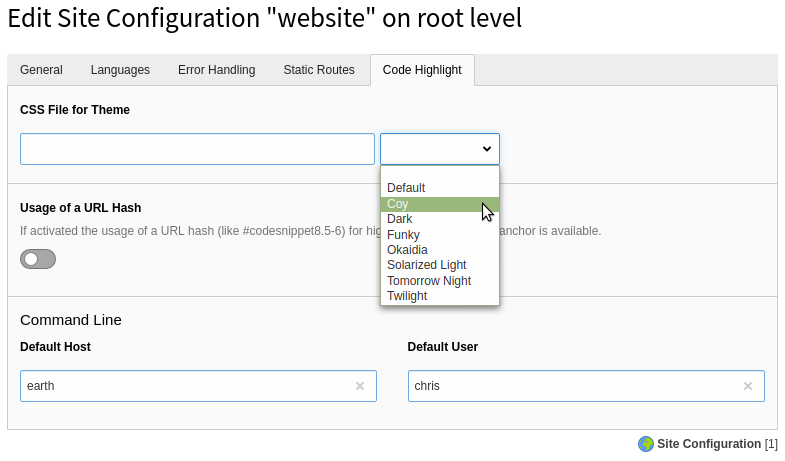
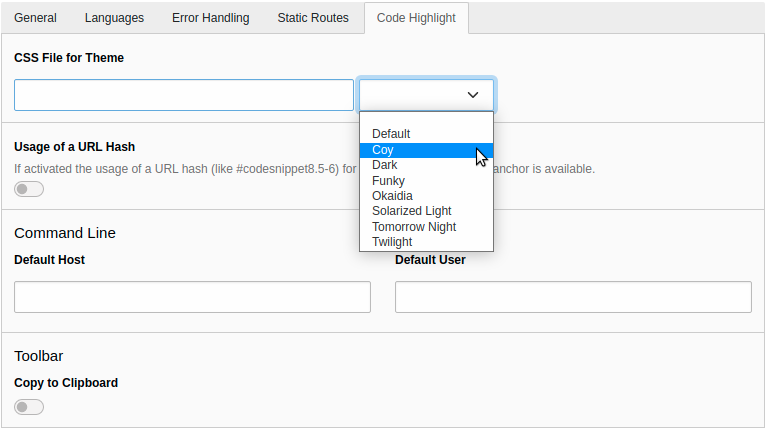
[FEATURE] Add plugin "Copy to clipboard"
Resolves: #27

diff --git a/Resources/Public/Prism/plugins/toolbar/prism-toolbar.min.js b/Resources/Public/Prism/plugins/toolbar/prism-toolbar.min.js
@@ -1,0 +1,1 @@
+!function(){if("undefined"!=typeof Prism&&"undefined"!=typeof document){var i=[],l={},d=function(){};Prism.plugins.toolbar={};var e=Prism.plugins.toolbar.registerButton=function(e,n){var t;t="function"==typeof n?n:function(e){var t;return"function"==typeof n.onClick?((t=document.createElement("button")).type="button",t.addEventListener("click",function(){n.onClick.call(this,e)})):"string"==typeof n.url?(t=document.createElement("a")).href=n.url:t=document.createElement("span"),n.className&&t.classList.add(n.className),t.textContent=n.text,t},e in l?console.warn('There is a button with the key "'+e+'" registered already.'):i.push(l[e]=t)},t=Prism.plugins.toolbar.hook=function(a){var e=a.element.parentNode;if(e&&/pre/i.test(e.nodeName)&&!e.parentNode.classList.contains("code-toolbar")){var t=document.createElement("div");t.classList.add("code-toolbar"),e.parentNode.insertBefore(t,e),t.appendChild(e);var r=document.createElement("div");r.classList.add("toolbar");var n=i,o=function(e){for(;e;){var t=e.getAttribute("data-toolbar-order");if(null!=t)return(t=t.trim()).length?t.split(/\s*,\s*/g):[];e=e.parentElement}}(a.element);o&&(n=o.map(function(e){return l[e]||d})),n.forEach(function(e){var t=e(a);if(t){var n=document.createElement("div");n.classList.add("toolbar-item"),n.appendChild(t),r.appendChild(n)}}),t.appendChild(r)}};e("label",function(e){var t=e.element.parentNode;if(t&&/pre/i.test(t.nodeName)&&t.hasAttribute("data-label")){var n,a,r=t.getAttribute("data-label");try{a=document.querySelector("template#"+r)}catch(e){}return a?n=a.content:(t.hasAttribute("data-url")?(n=document.createElement("a")).href=t.getAttribute("data-url"):n=document.createElement("span"),n.textContent=r),n}}),Prism.hooks.add("complete",t)}}();

diff --git a/Resources/Public/Prism/plugins/copy-to-clipboard/prism-copy-to-clipboard.min.js b/Resources/Public/Prism/plugins/copy-to-clipboard/prism-copy-to-clipboard.min.js
@@ -1,0 +1,1 @@
+!function(){function u(t,e){t.addEventListener("click",function(){!function(t){navigator.clipboard?navigator.clipboard.writeText(t.getText()).then(t.success,function(){o(t)}):o(t)}(e)})}function o(e){var t=document.createElement("textarea");t.value=e.getText(),t.style.top="0",t.style.left="0",t.style.position="fixed",document.body.appendChild(t),t.focus(),t.select();try{var o=document.execCommand("copy");setTimeout(function(){o?e.success():e.error()},1)}catch(t){setTimeout(function(){e.error(t)},1)}document.body.removeChild(t)}"undefined"!=typeof Prism&&"undefined"!=typeof document&&(Prism.plugins.toolbar?Prism.plugins.toolbar.registerButton("copy-to-clipboard",function(t){var e=t.element,o=function(t){var e={copy:"Copy","copy-error":"Press Ctrl+C to copy","copy-success":"Copied!","copy-timeout":5e3};for(var o in e){for(var n="data-prismjs-"+o,c=t;c&&!c.hasAttribute(n);)c=c.parentElement;c&&(e[o]=c.getAttribute(n))}return e}(e),n=document.createElement("button");n.className="copy-to-clipboard-button",n.setAttribute("type","button");var c=document.createElement("span");return n.appendChild(c),i("copy"),u(n,{getText:function(){return e.textContent},success:function(){i("copy-success"),r()},error:function(){i("copy-error"),setTimeout(function(){!function(t){window.getSelection().selectAllChildren(t)}(e)},1),r()}}),n;function r(){setTimeout(function(){i("copy")},o["copy-timeout"])}function i(t){c.textContent=o[t],n.setAttribute("data-copy-state",t)}}):console.warn("Copy to Clipboard plugin loaded before Toolbar plugin."))}();

diff --git a/Resources/Public/Prism/plugins/toolbar/prism-toolbar.css b/Resources/Public/Prism/plugins/toolbar/prism-toolbar.css
@@ -1,0 +1,1 @@
+div.code-toolbar{position:relative}div.code-toolbar>.toolbar{position:absolute;top:.3em;right:.2em;transition:opacity .3s ease-in-out;opacity:0}div.code-toolbar:hover>.toolbar{opacity:1}div.code-toolbar:focus-within>.toolbar{opacity:1}div.code-toolbar>.toolbar>.toolbar-item{display:inline-block}div.code-toolbar>.toolbar>.toolbar-item>a{cursor:pointer}div.code-toolbar>.toolbar>.toolbar-item>button{background:0 0;border:0;color:inherit;font:inherit;line-height:normal;overflow:visible;padding:0;-webkit-user-select:none;-moz-user-select:none;-ms-user-select:none}div.code-toolbar>.toolbar>.toolbar-item>a,div.code-toolbar>.toolbar>.toolbar-item>button,div.code-toolbar>.toolbar>.toolbar-item>span{color:#bbb;font-size:.8em;padding:0 .5em;background:#f5f2f0;background:rgba(224,224,224,.2);box-shadow:0 2px 0 0 rgba(0,0,0,.2);border-radius:.5em}div.code-toolbar>.toolbar>.toolbar-item>a:focus,div.code-toolbar>.toolbar>.toolbar-item>a:hover,div.code-toolbar>.toolbar>.toolbar-item>button:focus,div.code-toolbar>.toolbar>.toolbar-item>button:hover,div.code-toolbar>.toolbar>.toolbar-item>span:focus,div.code-toolbar>.toolbar>.toolbar-item>span:hover{color:inherit;text-decoration:none}

diff --git a/Build/gulpfile.js b/Build/gulpfile.js
@@ -16,9 +16,11 @@ const options = {
   outputPath: '../Resources/Public/Prism/',
   availablePlugins: [
     'command-line',
+    'copy-to-clipboard',
     'inline-color',
     'line-highlight',
     'line-numbers',
+    'toolbar',
   ],
 };
 

diff --git a/Classes/ViewHelpers/PrismViewHelper.php b/Classes/ViewHelpers/PrismViewHelper.php
@@ -11,6 +11,8 @@ declare(strict_types=1);
 
 namespace Brotkrueml\CodeHighlight\ViewHelpers;
 
+use Brotkrueml\CodeHighlight\Extension;
+use Brotkrueml\CodeHighlight\Service\TranslationService;
 use TYPO3\CMS\Core\Page\PageRenderer;
 use TYPO3\CMS\Core\Utility\GeneralUtility;
 use TYPO3Fluid\Fluid\Core\Rendering\RenderingContextInterface;
@@ -32,14 +34,17 @@ use TYPO3Fluid\Fluid\Core\ViewHelper;
  */
 class PrismViewHelper extends ViewHelper\AbstractViewHelper
 {
-    private const PRISM_PATH = 'EXT:codehighlight/Resources/Public/Prism/';
-
     protected $escapeOutput = false;
 
     /**
      * @var PageRenderer
      */
     private static $pageRenderer;
+
+    /**
+     * @var TranslationService
+     */
+    private static $translationService;
 
     private static $configuration;
     private static $options;
@@ -70,7 +75,7 @@ class PrismViewHelper extends ViewHelper\AbstractViewHelper
         static::$id = $arguments['id'] ?? '';
         static::$snippet = $arguments['snippet'] ?? '';
 
-        if (empty(static::$snippet)) {
+        if (static::$snippet === '') {
             return '';
         }
 
@@ -82,6 +87,7 @@ class PrismViewHelper extends ViewHelper\AbstractViewHelper
         static::handleLineNumbers();
         static::handleCommandLine();
         static::handleInlineColour();
+        static::handleCopyToClipboard();
         static::handleProgrammingLanguage();
 
         return static::buildHtml();
@@ -177,6 +183,30 @@ class PrismViewHelper extends ViewHelper\AbstractViewHelper
         static::$codeClasses[] = 'language-css-extras';
     }
 
+    private static function handleCopyToClipboard(): void
+    {
+        if (! (static::$configuration['codehighlightToolbarCopyToClipboard'] ?? false)) {
+            return;
+        }
+
+        static::addCssFile('plugins/toolbar/prism-toolbar.css');
+        static::addJsFile('plugins/toolbar/prism-toolbar.min.js');
+        static::addJsFile('plugins/copy-to-clipboard/prism-copy-to-clipboard.min.js');
+
+        static::addToPreAttributes('prismjs-copy', static::translate('toolbar.copy'));
+        static::addToPreAttributes('prismjs-copy-error', static::translate('toolbar.copyError'));
+        static::addToPreAttributes('prismjs-copy-success', static::translate('toolbar.copySuccess'));
+    }
+
+    private static function translate(string $key): string
+    {
+        if (static::$translationService === null) {
+            static::$translationService = new TranslationService();
+        }
+
+        return static::$translationService->translate($key);
+    }
+
     private static function handleProgrammingLanguage(): void
     {
         $programmingLanguage = static::$options['programmingLanguage'] ?? '';
@@ -189,7 +219,7 @@ class PrismViewHelper extends ViewHelper\AbstractViewHelper
 
     private static function buildHtml(): string
     {
-        if (! empty(static::$preClasses)) {
+        if (static::$preClasses !== []) {
             static::$preAttributes[] = \sprintf(
                 'class="%s"',
                 \implode(' ', static::$preClasses)
@@ -199,7 +229,7 @@ class PrismViewHelper extends ViewHelper\AbstractViewHelper
         $preAttributes = \implode(' ', static::$preAttributes);
 
         $codeAttributes = '';
-        if (! empty(static::$codeClasses)) {
+        if (static::$codeClasses !== []) {
             $codeAttributes = \sprintf(
                 'class="%s"',
                 \implode(' ', static::$codeClasses)
@@ -227,7 +257,7 @@ class PrismViewHelper extends ViewHelper\AbstractViewHelper
     private static function addCssFile(string $file, bool $prependPrismPath = true): void
     {
         if ($prependPrismPath) {
-            static::$pageRenderer->addCssFile(static::PRISM_PATH . $file);
+            static::$pageRenderer->addCssFile(Extension::PRISM_BASE_PATH . $file);
         } else {
             static::$pageRenderer->addCssFile($file);
         }
@@ -235,7 +265,7 @@ class PrismViewHelper extends ViewHelper\AbstractViewHelper
 
     private static function addJsFile(string $file): void
     {
-        static::$pageRenderer->addJsFooterFile(static::PRISM_PATH . $file);
+        static::$pageRenderer->addJsFooterFile(Extension::PRISM_BASE_PATH . $file);
     }
 
     private static function addToPreAttributes(string $dataName, string $dataValue): void
@@ -253,5 +283,13 @@ class PrismViewHelper extends ViewHelper\AbstractViewHelper
     public static function setPageRenderer(PageRenderer $pageRenderer): void
     {
         static::$pageRenderer = $pageRenderer;
+    }
+
+    /**
+     * For testing purposes only!
+     */
+    public static function setTranslationService(TranslationService $translationService): void
+    {
+        static::$translationService = $translationService;
     }
 }

diff --git a/Configuration/SiteConfiguration/Overrides/sites.php b/Configuration/SiteConfiguration/Overrides/sites.php
@@ -17,14 +17,14 @@ $GLOBALS['SiteConfiguration']['site']['columns'] += [
             'eval' => 'trim',
             'valuePicker' => [
                 'items' => [
-                    [Brotkrueml\CodeHighlight\Extension::LANGUAGE_PATH_SITE_CONFIGURATION . ':codehighlightTheme.valuePicker.default', Brotkrueml\CodeHighlight\Extension::THEMES_PATH . 'prism.css'],
-                    ['Coy', Brotkrueml\CodeHighlight\Extension::THEMES_PATH . 'prism-coy.css'],
-                    ['Dark', Brotkrueml\CodeHighlight\Extension::THEMES_PATH . 'prism-dark.css'],
-                    ['Funky', Brotkrueml\CodeHighlight\Extension::THEMES_PATH . 'prism-funky.css'],
-                    ['Okaidia', Brotkrueml\CodeHighlight\Extension::THEMES_PATH . 'prism-okaidia.css'],
-                    ['Solarized Light', Brotkrueml\CodeHighlight\Extension::THEMES_PATH . 'prism-solarizedlight.css'],
-                    ['Tomorrow Night', Brotkrueml\CodeHighlight\Extension::THEMES_PATH . 'prism-tomorrow.css'],
-                    ['Twilight', Brotkrueml\CodeHighlight\Extension::THEMES_PATH . 'prism-twilight.css'],
+                    [Brotkrueml\CodeHighlight\Extension::LANGUAGE_PATH_SITE_CONFIGURATION . ':codehighlightTheme.valuePicker.default', Brotkrueml\CodeHighlight\Extension::PRISM_THEMES_PATH . 'prism.css'],
+                    ['Coy', Brotkrueml\CodeHighlight\Extension::PRISM_THEMES_PATH . 'prism-coy.css'],
+                    ['Dark', Brotkrueml\CodeHighlight\Extension::PRISM_THEMES_PATH . 'prism-dark.css'],
+                    ['Funky', Brotkrueml\CodeHighlight\Extension::PRISM_THEMES_PATH . 'prism-funky.css'],
+                    ['Okaidia', Brotkrueml\CodeHighlight\Extension::PRISM_THEMES_PATH . 'prism-okaidia.css'],
+                    ['Solarized Light', Brotkrueml\CodeHighlight\Extension::PRISM_THEMES_PATH . 'prism-solarizedlight.css'],
+                    ['Tomorrow Night', Brotkrueml\CodeHighlight\Extension::PRISM_THEMES_PATH . 'prism-tomorrow.css'],
+                    ['Twilight', Brotkrueml\CodeHighlight\Extension::PRISM_THEMES_PATH . 'prism-twilight.css'],
                 ],
             ],
         ],
@@ -57,6 +57,19 @@ $GLOBALS['SiteConfiguration']['site']['columns'] += [
             'eval' => 'trim',
         ],
     ],
+    'codehighlightToolbarCopyToClipboard' => [
+        'label' => Brotkrueml\CodeHighlight\Extension::LANGUAGE_PATH_SITE_CONFIGURATION . ':codehighlightToolbarCopyToClipboard',
+        'config' => [
+            'type' => 'check',
+            'renderType' => 'checkboxToggle',
+            'items' => [
+                [
+                    0 => '',
+                    1 => '',
+                ],
+            ],
+        ],
+    ],
 ];
 
 $GLOBALS['SiteConfiguration']['site']['types']['0']['showitem'] .= '
@@ -65,10 +78,14 @@ $GLOBALS['SiteConfiguration']['site']['types']['0']['showitem'] .= '
         codehighlightTheme,
         codehighlightUseUrlHash,
         --palette--;' . Brotkrueml\CodeHighlight\Extension::LANGUAGE_PATH_SITE_CONFIGURATION . ':codehighlightCommandLine;codehighlightCommandLine,
+        --palette--;' . Brotkrueml\CodeHighlight\Extension::LANGUAGE_PATH_SITE_CONFIGURATION . ':codehighlightToolbar;codehighlightToolbar,
 ';
 
 $GLOBALS['SiteConfiguration']['site']['palettes'] += [
     'codehighlightCommandLine' => [
         'showitem' => 'codehighlightCommandLineDefaultHost,codehighlightCommandLineDefaultUser',
+    ],
+    'codehighlightToolbar' => [
+        'showitem' => 'codehighlightToolbarCopyToClipboard',
     ],
 ];

diff --git a/Tests/Unit/ViewHelpers/PrismViewHelperTest.php b/Tests/Unit/ViewHelpers/PrismViewHelperTest.php
@@ -11,6 +11,7 @@ declare(strict_types=1);
 
 namespace Brotkrueml\CodeHighlight\Tests\Unit\ViewHelpers;
 
+use Brotkrueml\CodeHighlight\Service\TranslationService;
 use Brotkrueml\CodeHighlight\ViewHelpers\PrismViewHelper;
 use PHPUnit\Framework\MockObject\MockObject;
 use PHPUnit\Framework\TestCase;
@@ -38,8 +39,15 @@ class PrismViewHelperTest extends TestCase
     {
         $this->renderingContextMock = $this->createMock(RenderingContext::class);
         $this->pageRendererMock = $this->createMock(PageRenderer::class);
+        $translationService = $this->createStub(TranslationService::class);
+        $translationService
+            ->method('translate')
+            ->willReturnCallback(static function ($key): string {
+                return $key;
+            });
         $this->subject = new PrismViewHelper();
         $this->subject->setPageRenderer($this->pageRendererMock);
+        $this->subject->setTranslationService($translationService);
     }
 
     /**
@@ -367,6 +375,16 @@ class PrismViewHelperTest extends TestCase
             '<pre><code class="language-css">some code snippet</code></pre>',
         ];
 
+        yield 'With activated copy to clipboard plugin' => [
+            [
+                'configuration' => [
+                    'codehighlightToolbarCopyToClipboard' => true,
+                ],
+                'snippet' => 'some code snippet',
+            ],
+            '<pre data-prismjs-copy="toolbar.copy" data-prismjs-copy-error="toolbar.copyError" data-prismjs-copy-success="toolbar.copySuccess"><code class="language-none">some code snippet</code></pre>',
+        ];
+
         yield 'Special characters in attribute values are masked' => [
             [
                 'options' => [
@@ -514,7 +532,7 @@ class PrismViewHelperTest extends TestCase
      * @test
      * @dataProvider dataProviderForAssets
      */
-    public function lineNumberAssetsAreAddedCorrectly(array $arguments, string $addedCss, string $addedJs): void
+    public function assetsAreAddedCorrectly(array $arguments, string $addedCss, string $addedJs): void
     {
         $this->pageRendererMock
             ->expects(self::exactly(2))
@@ -525,7 +543,7 @@ class PrismViewHelperTest extends TestCase
             );
 
         $this->pageRendererMock
-            ->expects(self::exactly(3))
+            ->expects(self::atLeast(3))
             ->method('addJsFooterFile')
             ->withConsecutive(
                 [self::anything()],
@@ -585,6 +603,18 @@ class PrismViewHelperTest extends TestCase
             ],
             $this->buildAssetPath('plugins/command-line/prism-command-line.css'),
             $this->buildAssetPath('plugins/command-line/prism-command-line.min.js'),
+        ];
+
+        yield 'Configuration for toolbar "Copy to Clipboard" is activated' => [
+            [
+                'configuration' => [
+                    'codehighlightToolbarCopyToClipboard' => true,
+                ],
+                'snippet' => 'some code snippet',
+            ],
+            $this->buildAssetPath('plugins/toolbar/prism-toolbar.css'),
+            $this->buildAssetPath('plugins/toolbar/prism-toolbar.min.js'),
+            $this->buildAssetPath('plugins/copy-to-clipboard/prism-copy-to-clipboard.min.js'),
         ];
     }
 }

diff --git a/Classes/Service/TranslationService.php b/Classes/Service/TranslationService.php
@@ -1,0 +1,26 @@
+<?php
+
+declare(strict_types=1);
+
+/*
+ * This file is part of the "codehighlight" extension for TYPO3 CMS.
+ *
+ * For the full copyright and license information, please read the
+ * LICENSE.txt file that was distributed with this source code.
+ */
+
+namespace Brotkrueml\CodeHighlight\Service;
+
+use Brotkrueml\CodeHighlight\Extension;
+use TYPO3\CMS\Extbase\Utility\LocalizationUtility;
+
+/**
+ * @internal
+ */
+class TranslationService
+{
+    public function translate(string $key): string
+    {
+        return LocalizationUtility::translate($key, Extension::KEY);
+    }
+}

diff --git a/Classes/Extension.php b/Classes/Extension.php
@@ -22,5 +22,6 @@ final class Extension
     public const LANGUAGE_PATH_PROGRAMMING_LANGUAGES = 'LLL:EXT:' . self::KEY . '/Resources/Private/Language/ProgrammingLanguages.xlf';
     public const LANGUAGE_PATH_SITE_CONFIGURATION = 'LLL:EXT:' . self::KEY . '/Resources/Private/Language/SiteConfiguration.xlf';
 
-    public const THEMES_PATH = 'EXT:' . self::KEY . '/Resources/Public/Prism/themes/';
+    public const PRISM_BASE_PATH = 'EXT:' . self::KEY . '/Resources/Public/Prism/';
+    public const PRISM_THEMES_PATH = self::PRISM_BASE_PATH . 'themes/';
 }

diff --git a/Documentation/Configuration/Index.rst b/Documentation/Configuration/Index.rst
@@ -54,7 +54,7 @@ As the theme is assigned to a site, different sites can have different themes.
 Usage of a URL Hash
 -------------------
 
-If the option is activated, the usage of a URL hash (like ``#codesnippet8.5-6``)
+If the option is enabled, the usage of a URL hash (like ``#codesnippet8.5-6``)
 for highlighting code and as anchor is available. You can find more information
 in the :ref:`chapter for editors <editor-url-hash>`.
 
@@ -77,6 +77,15 @@ Command line: Default User
 Defines the default user for the command line, if none is given in the options
 of the content element. If a value is neither in the configuration nor in the
 content element given, ``user`` is used as last fallback.
+
+
+.. _configuration-toolbar-copy:
+
+Toolbar: Display Button "Copy to Clipboard"
+-------------------------------------------
+
+If the option is enabled, a :guilabel:`Copy` button is displayed in the upper
+right corner when the user moves the mouse pointer over a code snippet.
 
 
 .. _constant-editor:

diff --git a/CHANGELOG.md b/CHANGELOG.md
@@ -6,6 +6,9 @@ and this project adheres to [Semantic Versioning](https://semver.org/spec/v2.0.0
 
 ## [Unreleased]
 
+### Added
+- Button "Copy" to copy a code snippet to the clipboard (#27)
+
 ### Fixed
 - Move content element to group "special" in type select box (TYPO3 v10+)
 
